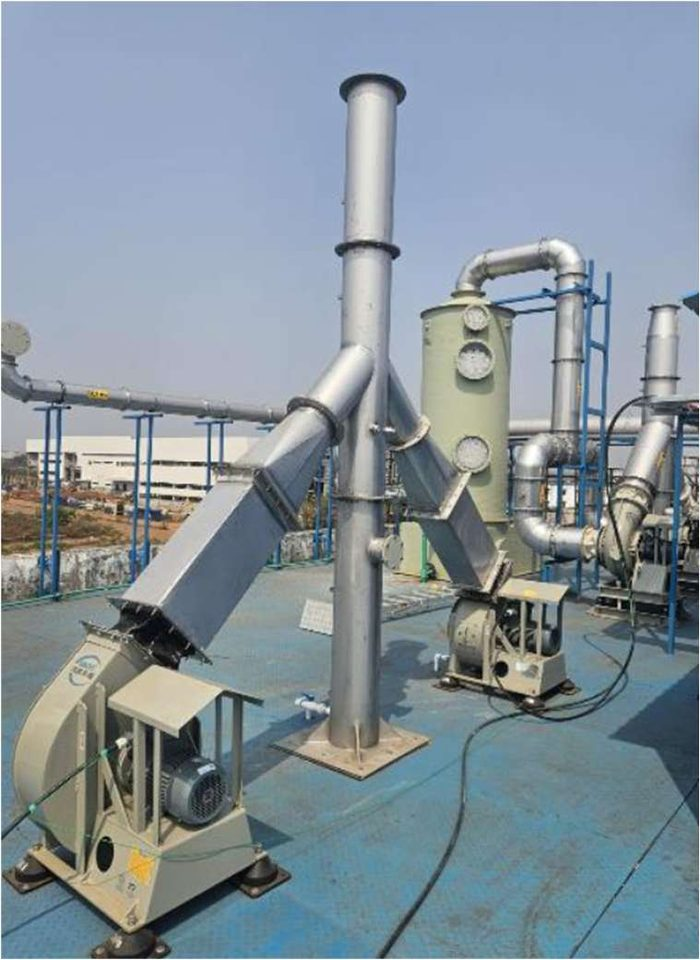
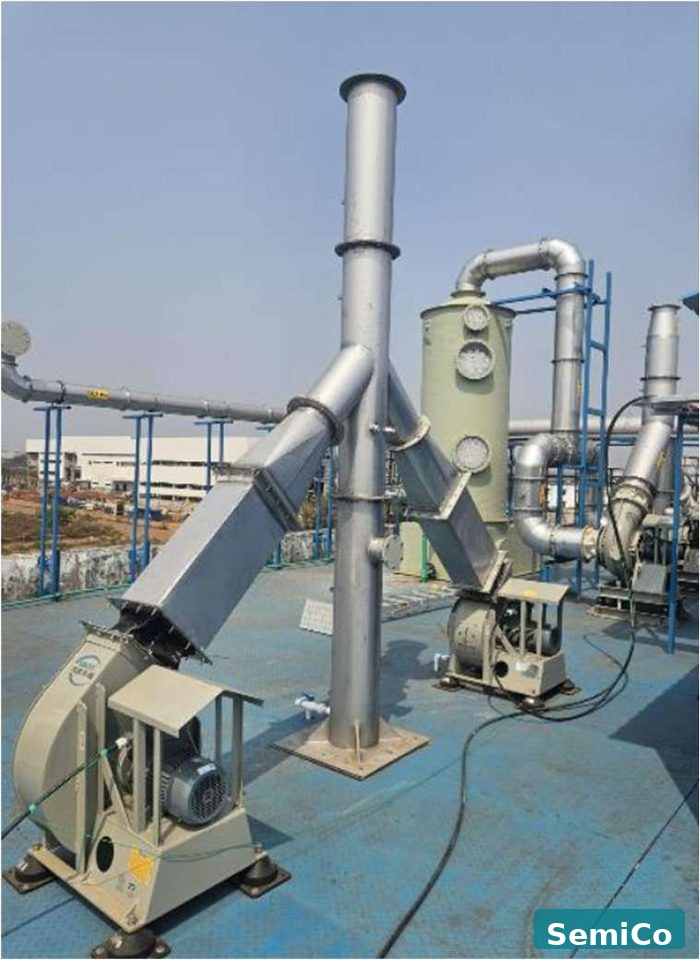
Mobile responsive, services links, SemiCo watermark on images

Changed region(s): [[0.75, 0.9375, 0.99, 1.0]]

diff --git a/style.css b/style.css
@@ -262,6 +262,17 @@ nav {
 }
 .card h3 { font-size: 0.975rem; font-weight: 700; color: var(--navy); margin-bottom: 7px; }
 .card p { font-size: 0.875rem; color: var(--muted); line-height: 1.55; }
+.svc-link {
+  display: inline-block;
+  margin-top: 12px;
+  font-size: 0.8rem;
+  font-weight: 600;
+  color: var(--teal);
+  text-decoration: none;
+  border-bottom: 1px solid transparent;
+  transition: border-color 0.2s, color 0.2s;
+}
+.svc-link:hover { color: var(--navy); border-bottom-color: var(--navy); }
 
 /* ── EQUIPMENT CARD ── */
 .eq-card {
@@ -590,11 +601,12 @@ footer a:hover { color: rgba(255,255,255,0.8); }
   background: var(--off-white);
   line-height: 0;
 }
+/* Show full image at natural proportions — no cropping */
 .eq-img-single img {
   width: 100%;
-  aspect-ratio: 4 / 3;
-  object-fit: cover;
+  height: auto;
   display: block;
+  border-radius: 10px;
 }
 
 .eq-img-stack {
@@ -602,11 +614,10 @@ footer a:hover { color: rgba(255,255,255,0.8); }
   flex-direction: column;
   gap: 8px;
 }
-/* Wide landscape images (wet bench, exhaust) — short crop suits them */
+/* Stack: full image at natural proportions */
 .eq-img-stack img {
   width: 100%;
-  aspect-ratio: 5 / 2;
-  object-fit: cover;
+  height: auto;
   border-radius: 8px;
   display: block;
 }
@@ -642,47 +653,57 @@ footer a:hover { color: rgba(255,255,255,0.8); }
   transform: translateY(-3px);
 }
 
-/* Card photo area — all use the same aspect ratio so cards align */
+/* Card photo area — contain so full image is always visible */
 .eq-card-photo {
   width: 100%;
-  overflow: hidden;
   background: var(--off-white);
   line-height: 0;
-  aspect-ratio: 4 / 3;
+  display: flex;
+  align-items: center;
+  justify-content: center;
+  padding: 16px;
+  box-sizing: border-box;
 }
 .eq-card-photo img {
   width: 100%;
-  height: 100%;
-  object-fit: cover;
+  height: auto;
+  max-height: 280px;
+  object-fit: contain;
   display: block;
 }
 
-/* Side-by-side dual photo — same overall height as single */
+/* Duo — two portrait images side by side, contained fully */
 .eq-card-photo-duo {
   display: grid;
   grid-template-columns: 1fr 1fr;
-  gap: 2px;
-  aspect-ratio: 4 / 3;
+  gap: 8px;
+  background: var(--off-white);
+  padding: 16px;
+  box-sizing: border-box;
 }
 .eq-card-photo-duo img {
   width: 100%;
-  height: 100%;
-  object-fit: cover;
+  height: 240px;
+  object-fit: contain;
   display: block;
+  background: var(--off-white);
 }
 
-/* Three-photo strip — same overall height */
+/* Trio — three images in a row, contained */
 .eq-card-photo-trio {
   display: grid;
   grid-template-columns: 1fr 1fr 1fr;
-  gap: 2px;
-  aspect-ratio: 4 / 3;
+  gap: 8px;
+  background: var(--off-white);
+  padding: 12px;
+  box-sizing: border-box;
 }
 .eq-card-photo-trio img {
   width: 100%;
-  height: 100%;
-  object-fit: cover;
+  height: 160px;
+  object-fit: contain;
   display: block;
+  background: var(--off-white);
 }
 
 .eq-card-header {
@@ -757,47 +778,87 @@ footer a:hover { color: rgba(255,255,255,0.8); }
   padding: 64px 48px;
 }
 
-/* ── RESPONSIVE ── */
+/* ── RESPONSIVE: TABLET (≤900px) ── */
 @media (max-width: 900px) {
   nav { padding: 0 24px; }
   .nav-links { display: none; }
   .nav-toggle { display: flex; }
 
-  .hero, .page-hero { padding: 52px 24px 40px; }
+  .hero   { padding: 56px 24px 44px; }
+  .page-hero { padding: 40px 24px 32px; }
   .section { padding: 48px 20px; }
 
+  /* Two-col grids → single column */
   .about-grid,
   .fire-grid,
   .contact-grid,
-  .eq-row { grid-template-columns: 1fr; gap: 28px; }
+  .eq-row { grid-template-columns: 1fr; gap: 24px; }
 
-  /* On mobile, always show media before body regardless of flip */
+  /* Flip rows: always image first on mobile */
   .eq-row-flip .eq-row-media { order: 0; }
   .eq-row-flip .eq-row-body  { order: 1; }
 
-  .eq-cta-band { padding: 48px 24px; }
+  .eq-row-divider { margin: 32px 0; }
+  .eq-card-grid   { margin-top: 24px; }
+  .eq-cta-band    { padding: 48px 24px; }
 
+  /* Process grid 3→2 cols */
   .process-grid { grid-template-columns: 1fr 1fr; }
 
+  /* Fire page */
   .fire-list { grid-template-columns: 1fr; }
 
-  .stat { border-right: none; border-bottom: 1px solid var(--border); }
+  /* Stats band — stack vertically */
+  .stats-band { flex-direction: column; align-items: stretch; }
+  .stat { border-right: none; border-bottom: 1px solid var(--border); max-width: 100%; }
   .stat:last-child { border-bottom: none; }
 
-  .page-hero { padding: 40px 24px 32px; }
+  /* Slightly smaller hero heading */
+  .hero h1 { font-size: clamp(1.6rem, 5vw, 2.4rem); }
 }
 
+/* ── RESPONSIVE: MOBILE (≤600px) ── */
 @media (max-width: 600px) {
   nav { padding: 0 16px; }
-  .hero { padding: 48px 16px 36px; }
-  .section { padding: 40px 16px; }
-  .page-hero { padding: 36px 16px 28px; }
+  .hero   { padding: 44px 16px 32px; }
+  .page-hero { padding: 32px 16px 24px; }
+  .section { padding: 36px 16px; }
 
-  .process-grid { grid-template-columns: 1fr; }
+  /* Single-col card grid */
   .card-grid { grid-template-columns: 1fr; }
 
-  .contact-grid { gap: 32px; }
+  /* Process grid → 1 col */
+  .process-grid { grid-template-columns: 1fr; }
 
-  table { font-size: 0.8rem; }
-  th, td { padding: 10px 12px; }
+  /* Values grid → 1 col on phones */
+  .values-grid { grid-template-columns: 1fr; }
+
+  /* Equipment duo/trio photo strips → compact on phones */
+  .eq-card-photo-duo { gap: 4px; padding: 10px; }
+  .eq-card-photo-duo img { height: 160px; }
+  .eq-card-photo-trio { grid-template-columns: 1fr 1fr; gap: 4px; padding: 8px; }
+  .eq-card-photo-trio img { height: 100px; }
+
+  /* ArisMD stats stay 2-col — readable at small size */
+  .aris-stats { gap: 8px; }
+  .aris-num   { font-size: 1.1rem; }
+
+  /* Hero buttons stack */
+  .hero-btns { flex-direction: column; align-items: center; gap: 10px; }
+  .hero-btns .btn { width: 100%; max-width: 280px; text-align: center; }
+
+  /* Section typography */
+  .section-title  { font-size: 1.3rem; }
+  .section-subtitle { font-size: 0.875rem; }
+
+  /* Contact */
+  .contact-grid { gap: 24px; }
+
+  /* Table */
+  table   { font-size: 0.8rem; }
+  th, td  { padding: 10px 12px; }
+
+  /* Reduce large gaps */
+  .eq-row-divider { margin: 20px 0; }
+  .eq-cta-band    { padding: 40px 16px; }
 }

diff --git a/equipment.html b/equipment.html
@@ -40,14 +40,14 @@
 </div>
 
 <!-- ── SECTION 1: WET PROCESS ──────────────────── -->
-<section class="section">
+<section class="section" id="wet-process">
   <div class="container">
     <p class="section-label">Wet Process Equipment</p>
     <h2 class="section-title">Wafer Cleaning &amp; Chemical Handling</h2>
     <p class="section-subtitle">Precision equipment for wafer cleaning, chemical dispensing, and drying — designed and fabricated by SemiCo.</p>
 
     <!-- Wet Bench: image left, specs right -->
-    <div class="eq-row">
+    <div class="eq-row" id="wet-bench">
       <div class="eq-row-media">
         <div class="eq-img-stack">
           <img src="img/wet-bench.jpg" alt="Wet bench system with robot rail and chemical tanks" loading="lazy"/>
@@ -72,7 +72,7 @@
     <!-- Chemical Dispenser + SRD as cards -->
     <div class="card-grid eq-card-grid">
 
-      <div class="eq-card">
+      <div class="eq-card" id="chemical-dispenser">
         <div class="eq-card-photo">
           <img src="img/chemical-dispenser.jpg" alt="Chemical Dispenser unit with AODD pump and magnehelic gauge" loading="lazy"/>
         </div>
@@ -93,7 +93,7 @@
         </div>
       </div>
 
-      <div class="eq-card">
+      <div class="eq-card" id="srd">
         <div class="eq-card-photo eq-card-photo-duo">
           <img src="img/srd-1.jpg" alt="SRD spin rinse dry single chamber" loading="lazy"/>
           <img src="img/srd-2.jpg" alt="SRD dual chamber configuration" loading="lazy"/>
@@ -119,7 +119,7 @@
 </section>
 
 <!-- ── SECTION 2: CMP ──────────────────────────── -->
-<section class="section section-alt">
+<section class="section section-alt" id="cmp">
   <div class="container">
     <p class="section-label">Panel Processing</p>
     <h2 class="section-title">CMP — Chemical Mechanical Planarisation</h2>
@@ -173,7 +173,7 @@
 </section>
 
 <!-- ── SECTION 3: FOUP + SiC ───────────────────── -->
-<section class="section">
+<section class="section" id="foup-sic">
   <div class="container">
     <p class="section-label">Advanced Materials</p>
     <h2 class="section-title">FOUP Cleaner &amp; SiC Equipment</h2>
@@ -227,7 +227,7 @@
 </section>
 
 <!-- ── SECTION 4: K&S ArisMD ──────────────────── -->
-<section class="section section-alt">
+<section class="section section-alt" id="vibration-isolation">
   <div class="container">
     <p class="section-label">Vibration Control</p>
     <h2 class="section-title">K&amp;S ArisMD Active Vibration Isolation</h2>
@@ -277,7 +277,7 @@
 </section>
 
 <!-- ── SECTION 5: EXHAUST & UTILITY ────────────── -->
-<section class="section">
+<section class="section" id="exhaust">
   <div class="container">
     <p class="section-label">Design &amp; Fabricate</p>
     <h2 class="section-title">Exhaust &amp; Utility Systems</h2>
@@ -311,7 +311,7 @@
     <!-- Flammable Exhaust + RO+EDI as cards -->
     <div class="card-grid eq-card-grid">
 
-      <div class="eq-card">
+      <div class="eq-card" id="flammable-exhaust">
         <div class="eq-card-photo">
           <img src="img/flammable-exhaust.jpg" alt="Flammable exhaust system with ATEX-compliant fans" loading="lazy"/>
         </div>
@@ -331,7 +331,7 @@
         </div>
       </div>
 
-      <div class="eq-card">
+      <div class="eq-card" id="ro-edi">
         <div class="eq-card-photo eq-card-photo-trio">
           <img src="img/ro-edi-1.jpg" alt="RO system module" loading="lazy"/>
           <img src="img/ro-edi-2.jpg" alt="EDI polishing unit" loading="lazy"/>

diff --git a/services.html b/services.html
@@ -55,6 +55,7 @@
         <div class="card-icon">🛒</div>
         <h3>Equipment Buy / Sell / R&D</h3>
         <p>Sourcing, trading, and research support for semiconductor equipment. Access to global procurement networks with reduced lead times.</p>
+        <a href="equipment.html" class="svc-link">Browse Equipment →</a>
       </div>
       <div class="card">
         <div class="card-icon">🌐</div>
@@ -91,6 +92,7 @@
         <div class="card-icon">💧</div>
         <h3>DIW Systems</h3>
         <p>Deionized water supply for wafer processing — ultra-pure water critical for contamination-free environments.</p>
+        <a href="equipment.html#ro-edi" class="svc-link">View RO+EDI Equipment →</a>
       </div>
       <div class="card">
         <div class="card-icon">❄</div>
@@ -101,6 +103,7 @@
         <div class="card-icon">💨</div>
         <h3>Exhaust &amp; Scrubber Systems</h3>
         <p>Exhaust system design and installation including acid and ammonia scrubbers for safe chemical handling and environmental compliance.</p>
+        <a href="equipment.html#exhaust" class="svc-link">View Exhaust Equipment →</a>
       </div>
       <div class="card">
         <div class="card-icon">♻</div>
@@ -147,6 +150,7 @@
         <div class="card-icon">📊</div>
         <h3>Floor Vibration Analysis</h3>
         <p>Vibration measurement and analysis to identify floor disturbance sources — critical for protecting sensitive lithography and metrology equipment in advanced fabs.</p>
+        <a href="equipment.html#vibration-isolation" class="svc-link">View ArisMD Isolation System →</a>
       </div>
     </div>
   </div>
